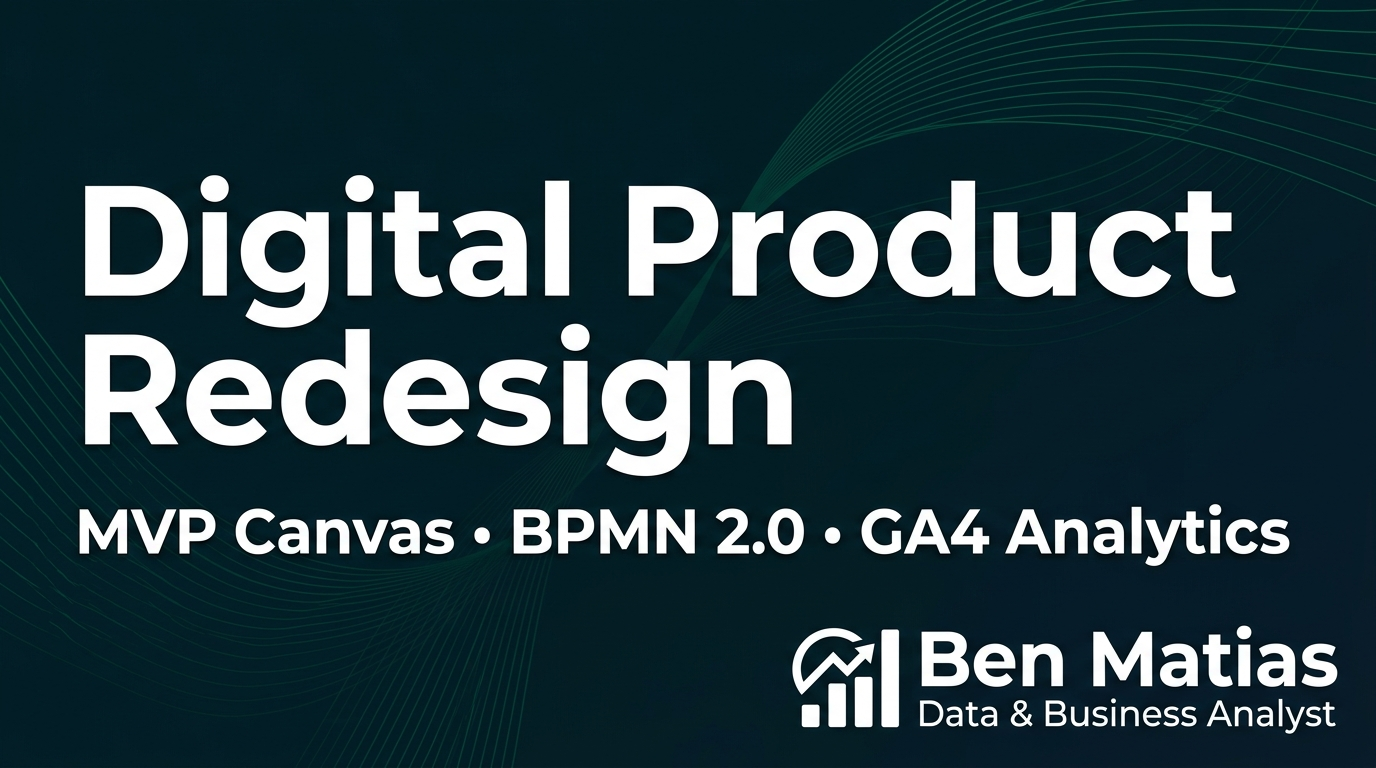
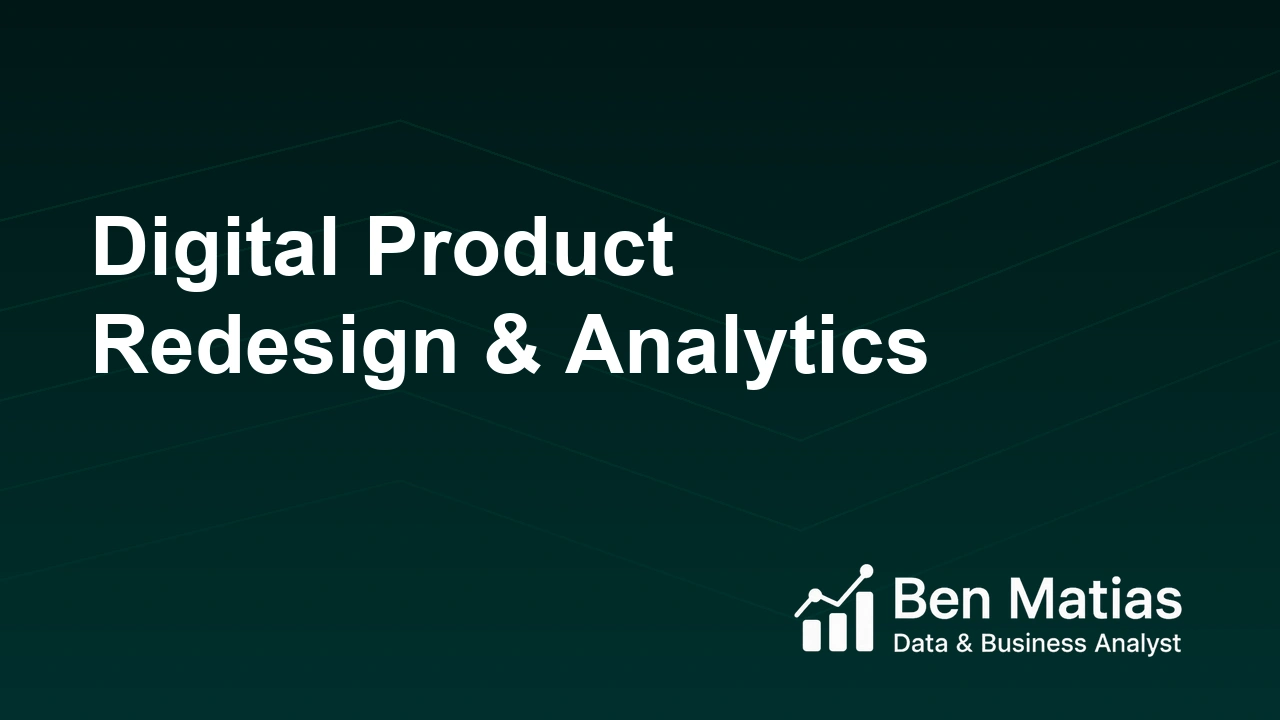
Add files via upload

diff --git a/assets/js/script.js b/assets/js/script.js
@@ -36,29 +36,53 @@ const translations = {
     btnDownloadCV: "Download CV",
 
     // --- Index Page Content ---
-    heroTitle: "Senior Business & Data Analyst | Digital Product Specialist",
-    heroSubtitle: "Transforming complex data into strategic decisions and scalable digital products through SQL analytics, Power BI / Looker Studio, Agile triads (BPMN 2.0), and Generative AI.",
+    heroTitle: "Data, BI & Business Analyst | Product Specialist",
+    heroSubtitle: "Bridging data analytics (SQL, Power BI, Looker Studio), business process engineering (BPMN 2.0, BDD), digital product management, and Generative AI to drive strategic decisions.",
     btnProjects: "View Projects",
     btnResume: "View Resume",
     aboutTitle: "About Me",
-    aboutContent: `<p>I am <strong>Benjamín Espinoza</strong>, an Industrial Engineer specializing in <strong>Data Analytics, Business Intelligence, and Digital Product Management</strong> at Banco Internacional. My career is focused on transitioning towards Product Management and <strong>Product Owner</strong> roles, bridging business strategy with tech development and product analytics.</p><p>As a Senior Business Analyst in Agile Triads (Product Owner, Tech Lead, BA), I lead digital product discovery and functional specifications: defining MVP Canvases and User Story Maps in Jira/Confluence, executing complex SQL queries in <strong>PostgreSQL</strong>, building executive dashboards in <strong>Looker Studio</strong> and Power BI, and managing the public web portal (<strong>Puck CMS</strong>, GA4, GTM, Clarity).</p><p>Additionally, I pioneer the daily integration of Generative AI tools (<strong>Gemini, NotebookLM, and Rovo AI</strong>) to streamline analytics, automate documentation, and accelerate value delivery across the product lifecycle.</p>`,
+    aboutContent: `<p>I am <strong>Benjamín Espinoza</strong>, an Industrial Engineer specializing in <strong>Data Analytics, Business Intelligence, Business Analysis, and Digital Product Strategy</strong>. Across my professional career in banking (Banco Internacional), retail, and industrial sectors (Lucas Diesel, Heavenward), I have built a versatile profile integrating four core pillars:</p>
+
+<div class="bio-pillars-grid" style="display: grid; grid-template-columns: repeat(auto-fit, minmax(240px, 1fr)); gap: 1rem; margin: 1.25rem 0;">
+  <div style="background: rgba(255,255,255,0.03); border: 1px solid rgba(0, 180, 216, 0.25); border-left: 3px solid #00e676; border-radius: 8px; padding: 0.85rem 1rem;">
+    <h4 style="color: #00e676; font-size: 0.95rem; margin-bottom: 0.35rem; display: flex; align-items: center; gap: 0.4rem;"><i class="fas fa-database"></i> Data Analyst</h4>
+    <p style="font-size: 0.84rem; color: #cbd5e1; margin: 0; line-height: 1.5;">Exploratory analysis and complex querying with <strong>Advanced SQL (PostgreSQL)</strong>, scripts in <strong>Python / Apps Script</strong> for automated ETL pipelines and dataset extraction.</p>
+  </div>
+
+  <div style="background: rgba(255,255,255,0.03); border: 1px solid rgba(0, 180, 216, 0.25); border-left: 3px solid #00b4d8; border-radius: 8px; padding: 0.85rem 1rem;">
+    <h4 style="color: #00b4d8; font-size: 0.95rem; margin-bottom: 0.35rem; display: flex; align-items: center; gap: 0.4rem;"><i class="fas fa-chart-pie"></i> BI Analyst</h4>
+    <p style="font-size: 0.84rem; color: #cbd5e1; margin: 0; line-height: 1.5;">Built over <strong>50 executive & operational dashboards in Power BI, Looker Studio, and Tableau</strong> using DAX, Power Query M, and KPI framework architecture.</p>
+  </div>
+
+  <div style="background: rgba(255,255,255,0.03); border: 1px solid rgba(0, 180, 216, 0.25); border-left: 3px solid #a855f7; border-radius: 8px; padding: 0.85rem 1rem;">
+    <h4 style="color: #a855f7; font-size: 0.95rem; margin-bottom: 0.35rem; display: flex; align-items: center; gap: 0.4rem;"><i class="fas fa-project-diagram"></i> Business Analyst (BA)</h4>
+    <p style="font-size: 0.84rem; color: #cbd5e1; margin: 0; line-height: 1.5;">Process reengineering with <strong>BPMN 2.0</strong>, BDD functional specifications (<em>Given-When-Then</em>) in Jira/Confluence, regulatory compliance, and business-IT alignment.</p>
+  </div>
+
+  <div style="background: rgba(255,255,255,0.03); border: 1px solid rgba(0, 180, 216, 0.25); border-left: 3px solid #ffb703; border-radius: 8px; padding: 0.85rem 1rem;">
+    <h4 style="color: #ffb703; font-size: 0.95rem; margin-bottom: 0.35rem; display: flex; align-items: center; gap: 0.4rem;"><i class="fas fa-bullseye"></i> Product Owner (PO Target)</h4>
+    <p style="font-size: 0.84rem; color: #cbd5e1; margin: 0; line-height: 1.5;">Agile triad collaboration (PO, Tech Lead, BA), <strong>MVP Canvas</strong> definition, User Story Mapping, Product Analytics (GA4/GTM/Clarity), and No-Code management in Puck CMS.</p>
+  </div>
+</div>
+
+<p>Pioneering the daily adoption of <strong>Generative AI (Gemini, NotebookLM, Rovo AI)</strong> to accelerate data analytics, automate technical documentation, and shorten value delivery cycles in complex environments.</p>`,
     impactTitle: "How I’ve Made an Impact",
     impacts: [{
-      icon: "fa-users-gear",
-      title: "Agile Triad Execution & UX Delivery",
-      text: "Facilitated business-tech alignment in Agile triads (PO, Tech Lead, BA), crafting MVP Canvases, User Story Maps, and functional QA certifications."
-    }, {
-      icon: "fa-globe",
-      title: "Public Website Redesign & Web Analytics",
-      text: "Led the public website redesign team at Banco Internacional with hands-on Puck CMS administration and full GA4, GTM, and Clarity analytics monitoring."
-    }, {
-      icon: "fa-project-diagram",
-      title: "Process Optimization (BPMN 2.0 & AI)",
-      text: "Mapped business processes using BPMN 2.0 and accelerated flow diagramming and documentation with Rovo AI, Gemini, and NotebookLM."
+      icon: "fa-database",
+      title: "Data Analytics & SQL Pipelines",
+      text: "Extracted actionable insights by executing complex SQL queries in PostgreSQL, building data models, and automating ETL workflows."
     }, {
       icon: "fa-chart-pie",
-      title: "Data Analytics & SQL Dashboards",
-      text: "Extracted insights from PostgreSQL databases with SQL and created Looker Studio / Power BI dashboards for executive decision-making."
+      title: "BI Dashboards & Executive Reporting",
+      text: "Designed and deployed 50+ interactive dashboards in Power BI and Looker Studio using DAX and Power Query for data-driven decisions."
+    }, {
+      icon: "fa-project-diagram",
+      title: "Process Engineering & BA Requirements",
+      text: "Mapped AS-IS and TO-BE operational workflows using BPMN 2.0, authored BDD User Stories in Jira, and audited regulatory compliance."
+    }, {
+      icon: "fa-bullseye",
+      title: "Digital Product Strategy & Agile Triads",
+      text: "Facilitated business-tech alignment in Agile triads (PO, Tech Lead, BA), defining MVP Canvases, Puck CMS management, and GA4 telemetry."
     }],
     projectsTitle: "Featured Projects",
     projects: [
@@ -769,29 +793,53 @@ const translations = {
     btnDownloadCV: "Descargar CV",
 
     // --- Index Page Content ---
-    heroTitle: "Senior Business & Data Analyst | Digital Product Specialist",
-    heroSubtitle: "Transformo datos complejos en decisiones estratégicas y productos digitales escalables mediante analítica SQL, Power BI / Looker Studio, triadas ágiles (BPMN 2.0) e IA Generativa.",
+    heroTitle: "Data, BI & Business Analyst | Product Specialist",
+    heroSubtitle: "Conecto la analítica de datos (SQL, Power BI, Looker Studio), el modelado de negocios (BPMN 2.0, BDD), la gestión de productos digitales e IA Generativa para tomar decisiones estratégicas.",
     btnProjects: "Ver Proyectos",
     btnResume: "Ver CV",
     aboutTitle: "Sobre mí",
-    aboutContent: `<p>Soy <strong>Benjamín Espinoza</strong>, Ingeniero Civil Industrial especializado en <strong>Análisis de Datos, Inteligencia de Negocios y Gestión de Productos Digitales</strong> en Banco Internacional. Mi enfoque profesional se orienta hacia la dirección de productos (<strong>Product Ownership / Product Management</strong>), conectando la estrategia del negocio con el desarrollo tecnológico y la analítica avanzada.</p><p>Como Senior Business Analyst en triadas ágiles (Product Owner, Tech Lead, BA), lidero el descubrimiento y especificación funcional de proyectos digitales: estructuro MVP Canvas y User Story Maps en Jira/Confluence, ejecuto consultas SQL complejas en <strong>PostgreSQL</strong>, construyo reportes ejecutivos en <strong>Looker Studio</strong> y Power BI, y administro el portal web público (<strong>Puck CMS</strong>, GA4, GTM, Clarity).</p><p>Adicionalmente, soy pionero en la integración de Inteligencia Artificial Generativa (<strong>Gemini, NotebookLM y Rovo AI</strong>) para optimizar la analítica, automatizar la documentación y acelerar la entrega de valor en el ciclo de vida del producto.</p>`,
+    aboutContent: `<p>Soy <strong>Benjamín Espinoza</strong>, Ingeniero Civil Industrial especializado en <strong>Análisis de Datos, Inteligencia de Negocios, Análisis de Negocios y Estrategia de Productos Digitales</strong>. A lo largo de mi trayectoria profesional en el sector financiero (Banco Internacional), retail e industrial (Lucas Diesel, Heavenward), he construido un perfil versátil que integra cuatro pilares fundamentales:</p>
+
+<div class="bio-pillars-grid" style="display: grid; grid-template-columns: repeat(auto-fit, minmax(240px, 1fr)); gap: 1rem; margin: 1.25rem 0;">
+  <div style="background: rgba(255,255,255,0.03); border: 1px solid rgba(0, 180, 216, 0.25); border-left: 3px solid #00e676; border-radius: 8px; padding: 0.85rem 1rem;">
+    <h4 style="color: #00e676; font-size: 0.95rem; margin-bottom: 0.35rem; display: flex; align-items: center; gap: 0.4rem;"><i class="fas fa-database"></i> Data Analyst</h4>
+    <p style="font-size: 0.84rem; color: #cbd5e1; margin: 0; line-height: 1.5;">Análisis exploratorio y extracción de datos con <strong>SQL avanzado (PostgreSQL)</strong>, scripts en <strong>Python / Apps Script</strong> para automatización de pipelines ETL y consultas a bases de datos relacionales.</p>
+  </div>
+
+  <div style="background: rgba(255,255,255,0.03); border: 1px solid rgba(0, 180, 216, 0.25); border-left: 3px solid #00b4d8; border-radius: 8px; padding: 0.85rem 1rem;">
+    <h4 style="color: #00b4d8; font-size: 0.95rem; margin-bottom: 0.35rem; display: flex; align-items: center; gap: 0.4rem;"><i class="fas fa-chart-pie"></i> BI Analyst</h4>
+    <p style="font-size: 0.84rem; color: #cbd5e1; margin: 0; line-height: 1.5;">Construcción de más de <strong>50 tableros ejecutivos y operacionales en Power BI, Looker Studio y Tableau</strong>, con modelado en DAX, Power Query M y diseño de arquitectura de KPIs.</p>
+  </div>
+
+  <div style="background: rgba(255,255,255,0.03); border: 1px solid rgba(0, 180, 216, 0.25); border-left: 3px solid #a855f7; border-radius: 8px; padding: 0.85rem 1rem;">
+    <h4 style="color: #a855f7; font-size: 0.95rem; margin-bottom: 0.35rem; display: flex; align-items: center; gap: 0.4rem;"><i class="fas fa-project-diagram"></i> Business Analyst (BA)</h4>
+    <p style="font-size: 0.84rem; color: #cbd5e1; margin: 0; line-height: 1.5;">Reingeniería de procesos con <strong>BPMN 2.0</strong>, especificación funcional BDD (<em>Given-When-Then</em>) en Jira/Confluence, auditoría de cumplimiento normativo y alineación negocio-TI.</p>
+  </div>
+
+  <div style="background: rgba(255,255,255,0.03); border: 1px solid rgba(0, 180, 216, 0.25); border-left: 3px solid #ffb703; border-radius: 8px; padding: 0.85rem 1rem;">
+    <h4 style="color: #ffb703; font-size: 0.95rem; margin-bottom: 0.35rem; display: flex; align-items: center; gap: 0.4rem;"><i class="fas fa-bullseye"></i> Product Owner (PO Target)</h4>
+    <p style="font-size: 0.84rem; color: #cbd5e1; margin: 0; line-height: 1.5;">Liderazgo en triadas ágiles (PO, Tech Lead, BA), definición de <strong>MVP Canvas</strong>, User Story Maps, analítica de producto (GA4/GTM/Clarity) y gestión sin código en Puck CMS.</p>
+  </div>
+</div>
+
+<p>Pionero en la integración diaria de <strong>IA Generativa (Gemini, NotebookLM, Rovo AI)</strong> para acelerar la analítica de datos, automatizar la documentación de requerimientos y reducir el ciclo de entrega de valor en proyectos de alta complejidad.</p>`,
     impactTitle: "Cómo He Generado Impacto",
     impacts: [{
-      icon: "fa-users-gear",
-      title: "Triadas Ágiles & Entregables de Producto",
-      text: "Facilité la alineación negocio-tecnología en triadas ágiles (PO, Tech Lead, BA), creando MVP Canvas, User Story Maps y certificaciones de QA funcional."
-    }, {
-      icon: "fa-globe",
-      title: "Rediseño de Sitio Público & Analítica Web",
-      text: "Lideré el equipo del rediseño del sitio web público de Banco Internacional con administración en Puck CMS y monitoreo de GA4, GTM y Microsoft Clarity."
-    }, {
-      icon: "fa-project-diagram",
-      title: "Optimización de Procesos (BPMN 2.0 & IA)",
-      text: "Modelé flujos operacionales con BPMN 2.0 e impulsé la diagramación y documentación asistida por IA usando Rovo AI, Gemini y NotebookLM."
+      icon: "fa-database",
+      title: "Analítica de Datos & Consultas SQL",
+      text: "Extraje insights ejecutando consultas SQL avanzadas en PostgreSQL, estructurando modelos dimensionales y automatizando flujos ETL."
     }, {
       icon: "fa-chart-pie",
-      title: "Analítica de Datos & Consultas SQL",
-      text: "Extraje insights ejecutando consultas SQL complejas en PostgreSQL y construyendo tableros en Looker Studio y Power BI para la toma de decisiones."
+      title: "Tableros BI & Reportabilidad Ejecutiva",
+      text: "Diseñé y desplegué más de 50 dashboards interactivos en Power BI y Looker Studio con métricas DAX y Power Query para la toma de decisiones."
+    }, {
+      icon: "fa-project-diagram",
+      title: "Ingeniería de Procesos & Requerimientos BA",
+      text: "Modelé flujos operacionales AS-IS y TO-BE con BPMN 2.0, redacté Historias de Usuario BDD en Jira y audité el cumplimiento normativo."
+    }, {
+      icon: "fa-bullseye",
+      title: "Estrategia de Producto & Triadas Ágiles",
+      text: "Facilité la alineación negocio-tecnología en triadas ágiles (PO, Tech Lead, BA), definiendo MVP Canvases, administración Puck CMS y GA4."
     }],
     projectsTitle: "Proyectos Destacados",
     projects: [
